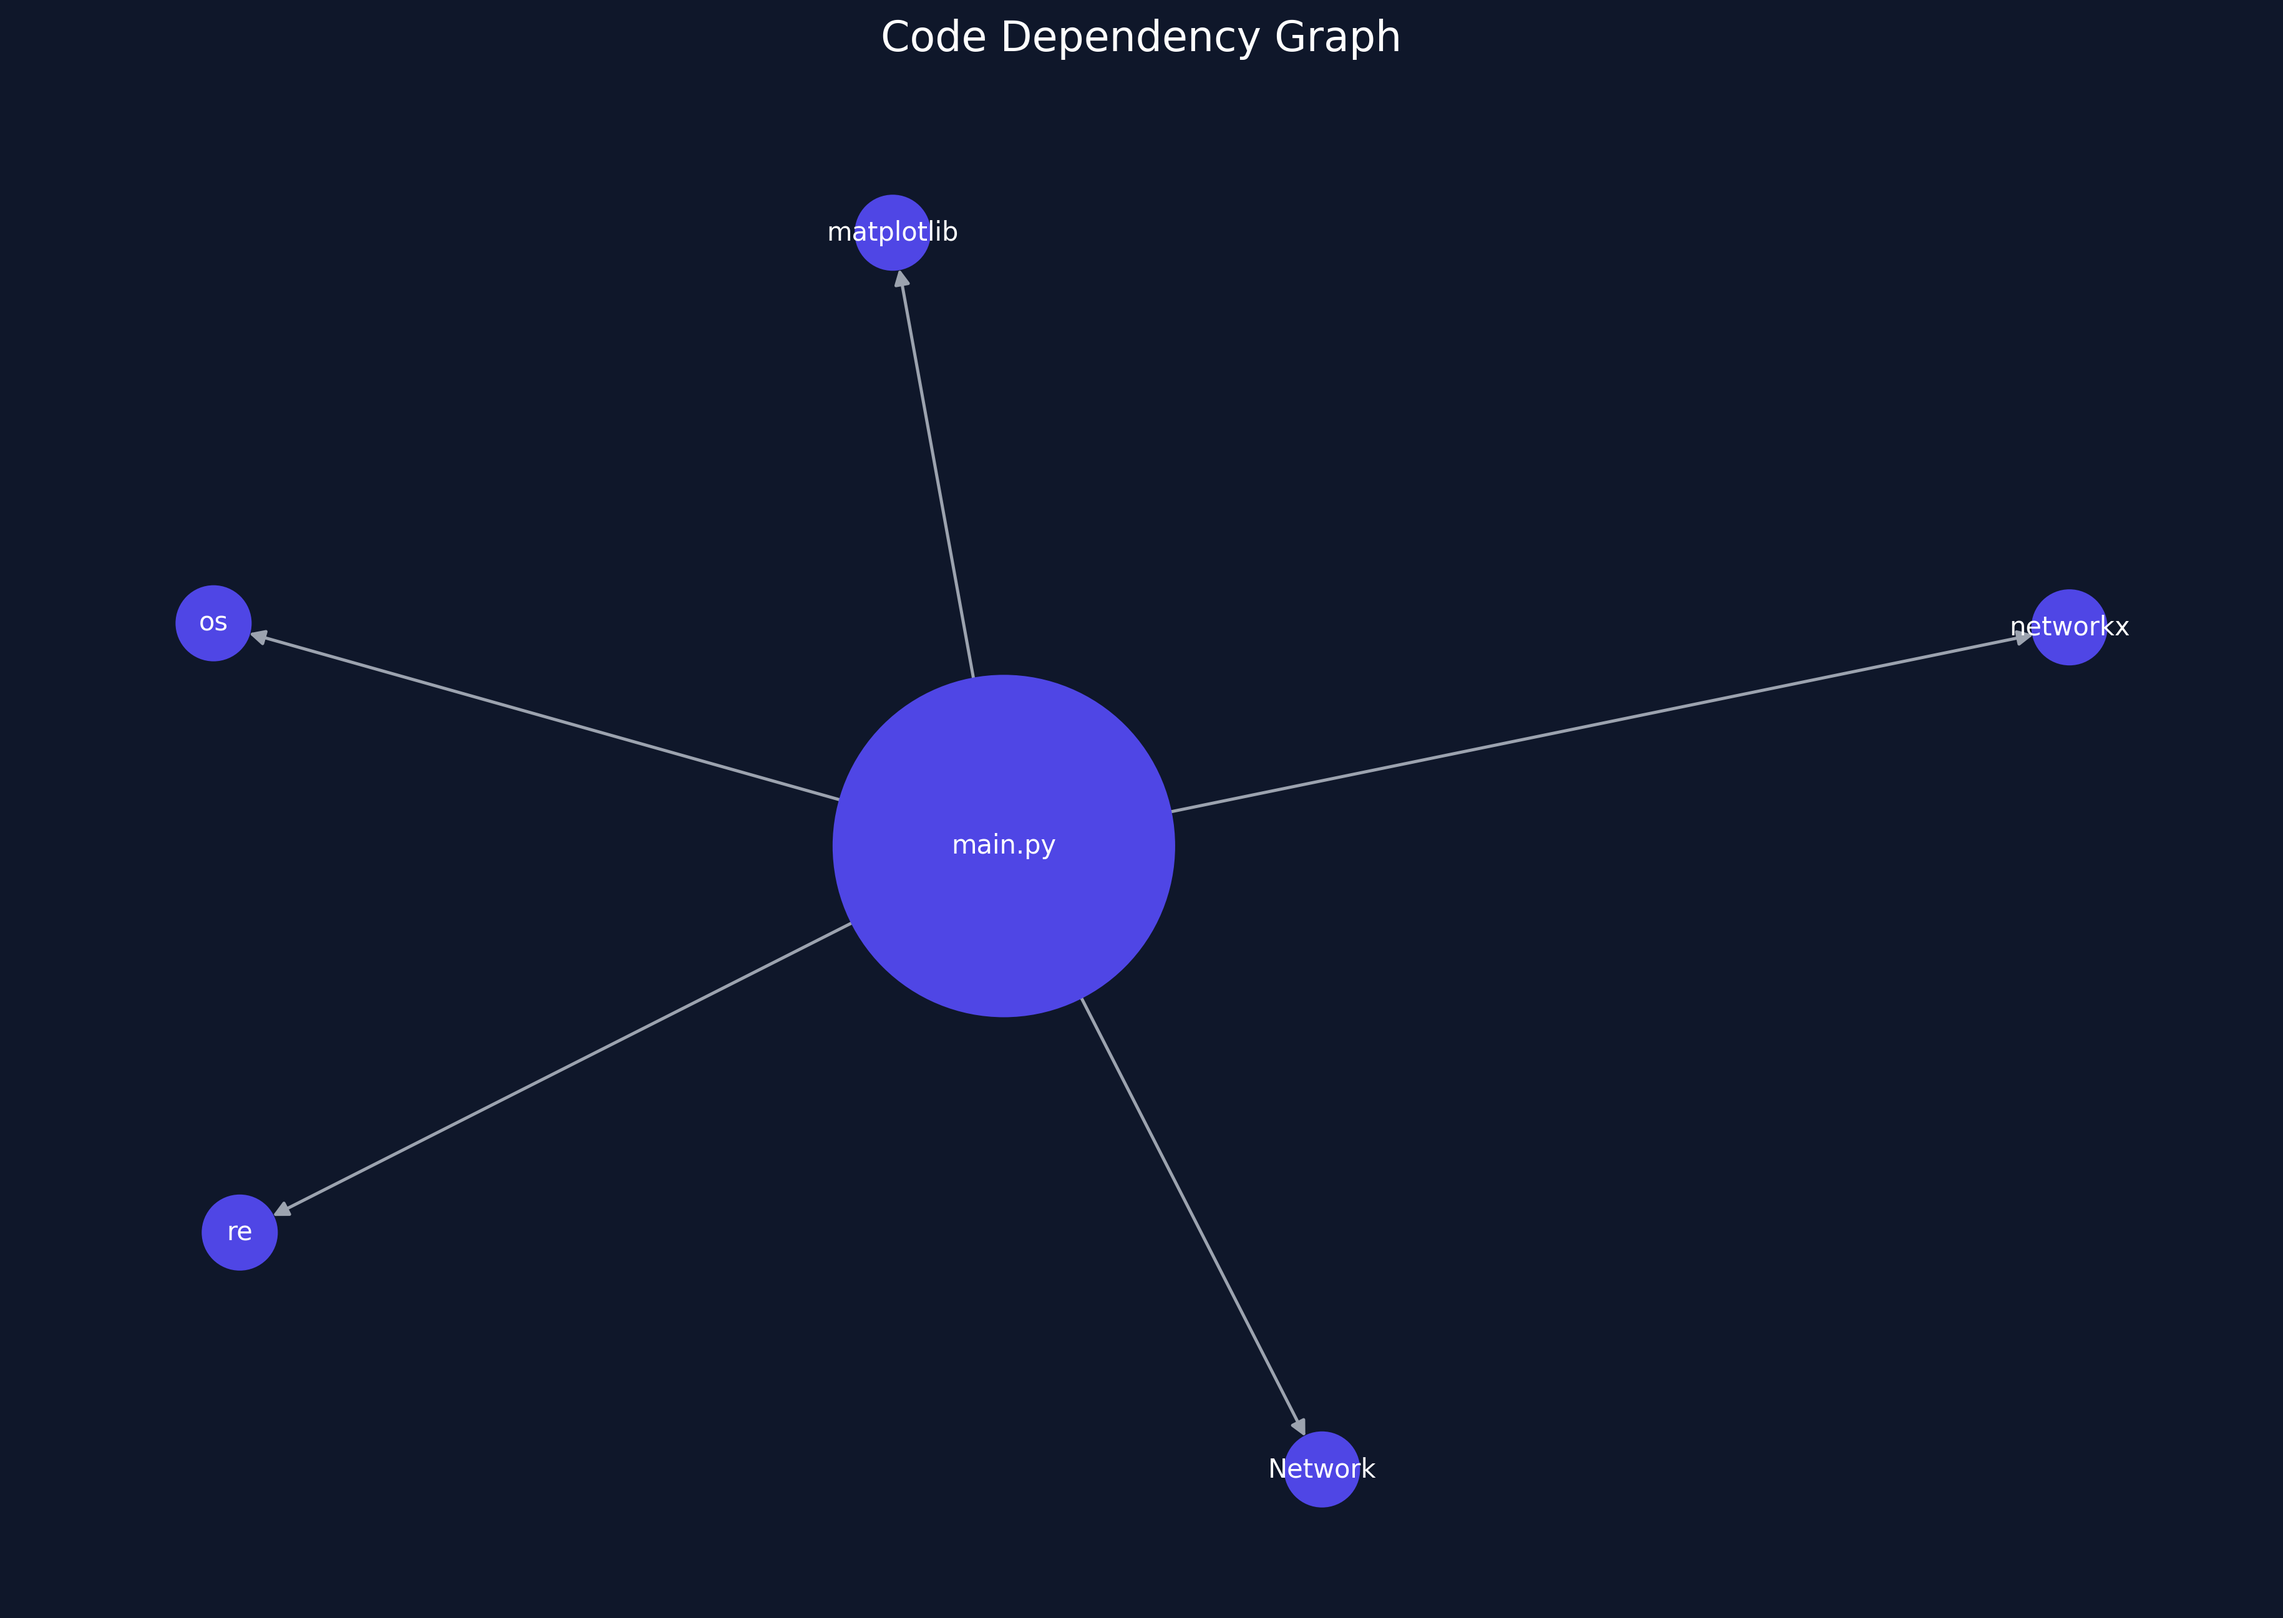
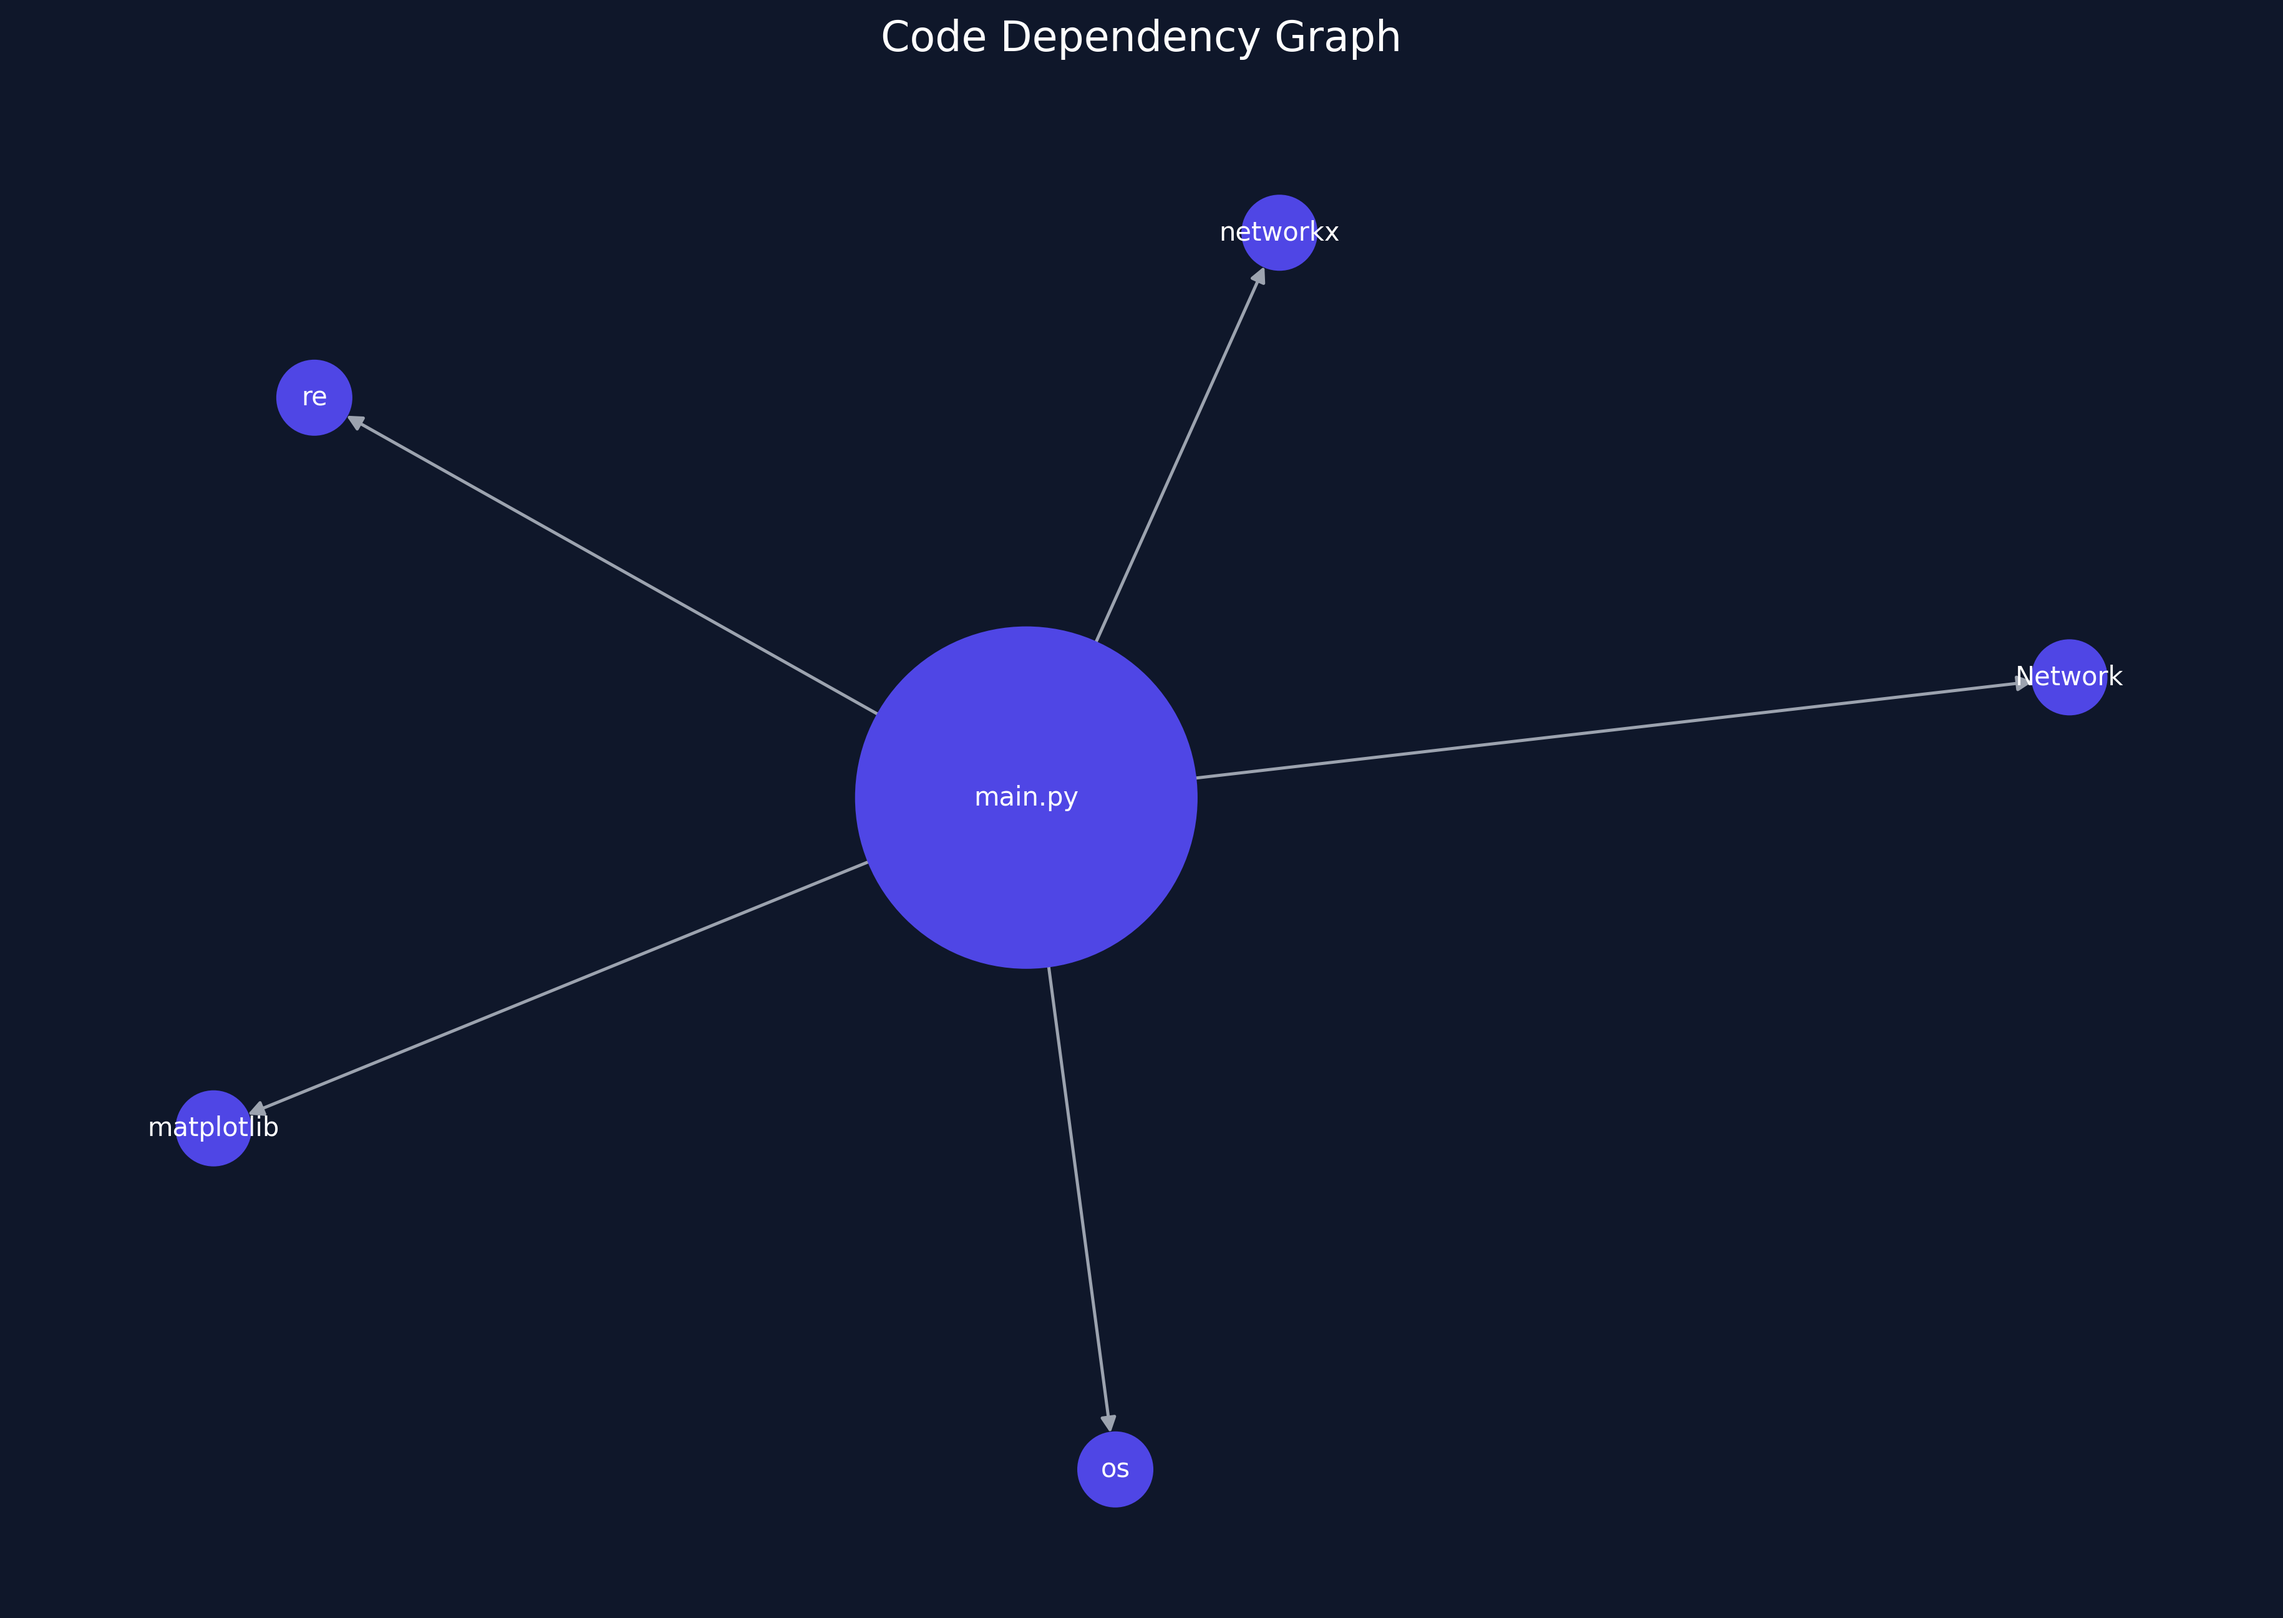
fix: resolve syntax error and improve interactive graph layout

diff --git a/dependency_graph.html b/dependency_graph.html
@@ -33,7 +33,7 @@
 
              #mynetwork {
                  width: 100%;
-                 height: 750px;
+                 height: 900px;
                  background-color: #0d1117;
                  border: 1px solid lightgray;
                  position: relative;
@@ -121,13 +121,22 @@
     "physics": {
         "barnesHut": {
             "avoidOverlap": 0,
-            "centralGravity": 0.3,
-            "damping": 0.09,
-            "gravitationalConstant": -3000,
-            "springConstant": 0.05,
-            "springLength": 150
+            "centralGravity": 0.6,
+            "damping": 0.12,
+            "gravitationalConstant": -8000,
+            "springConstant": 0.03,
+            "springLength": 300
         },
         "enabled": true,
+        "forceAtlas2Based": {
+            "avoidOverlap": 0,
+            "centralGravity": 0.01,
+            "damping": 0.4,
+            "gravitationalConstant": -50,
+            "springConstant": 0.08,
+            "springLength": 100
+        },
+        "solver": "forceAtlas2Based",
         "stabilization": {
             "enabled": true,
             "fit": true,

diff --git a/main.py b/main.py
@@ -37,7 +37,6 @@ def extract_imports(file_path):
 folder_path = input("Enter folder path: ")
 
 files = get_python_files(folder_path)
-
 dependency_map = {}
 
 for file in files:
@@ -59,7 +58,7 @@ for file, deps in dependency_map.items():
         G.add_node(dep)
         G.add_edge(file, dep)
 
-# Calculate degrees
+# Degrees
 in_degrees = dict(G.in_degree())
 out_degrees = dict(G.out_degree())
 
@@ -83,13 +82,11 @@ for file, degree in sorted_files:
 
 
 # =========================
-# STATIC GRAPH IMAGE EXPORT (PREMIUM STYLING)
+# STATIC GRAPH EXPORT
 # =========================
 plt.figure(figsize=(12, 8))
 
-# Dramatic node size scaling based on out-degree
 node_sizes = [800 + (out_degrees.get(node, 0) ** 1.8) * 900 for node in G.nodes()]
-
 pos = nx.spring_layout(G, k=0.8)
 
 nx.draw(
@@ -97,8 +94,8 @@ nx.draw(
     pos,
     with_labels=True,
     node_size=node_sizes,
-    node_color="#4F46E5",      # modern indigo
-    edge_color="#9CA3AF",      # soft gray edges
+    node_color="#4F46E5",
+    edge_color="#9CA3AF",
     font_color="white",
     font_size=10,
     width=1.2,
@@ -107,7 +104,7 @@ nx.draw(
 )
 
 ax = plt.gca()
-ax.set_facecolor('#0f172a')   # premium dark slate background
+ax.set_facecolor('#0f172a')
 plt.title("Code Dependency Graph", color="white", fontsize=16, pad=20)
 
 plt.savefig(
@@ -122,32 +119,32 @@ print("\nSaved static graph as dependency_graph.png")
 
 
 # =========================
-# INTERACTIVE GRAPH (UNCHANGED FUNCTIONALITY)
+# INTERACTIVE GRAPH (BIGGER CIRCLE)
 # =========================
-net = Network(height="750px", width="100%", bgcolor="#0d1117", font_color="white")
+net = Network(height="900px", width="100%", bgcolor="#0d1117", font_color="white")
 
-# Add nodes
+# Better layout
+net.force_atlas_2based()
+
+# Nodes
 for file in dependency_map:
     net.add_node(file, label=file, color="#1f77b4", size=25)
 
-# Add external nodes + edges
+# Edges
 for file, deps in dependency_map.items():
     for dep in deps:
         if dep not in dependency_map:
             net.add_node(dep, label=dep, color="#2ecc71", size=20)
         net.add_edge(file, dep)
 
-# Physics settings (smooth movement)
+# Spacious circular physics
 net.barnes_hut(
-    gravity=-3000,
-    central_gravity=0.3,
-    spring_length=150,
-    spring_strength=0.05,
-    damping=0.09
+    gravity=-8000,
+    central_gravity=0.6,
+    spring_length=300,
+    spring_strength=0.03,
+    damping=0.12
 )
 
-# Save interactive graph
 net.write_html("dependency_graph.html")
-
 print("Saved interactive graph as dependency_graph.html")
-
